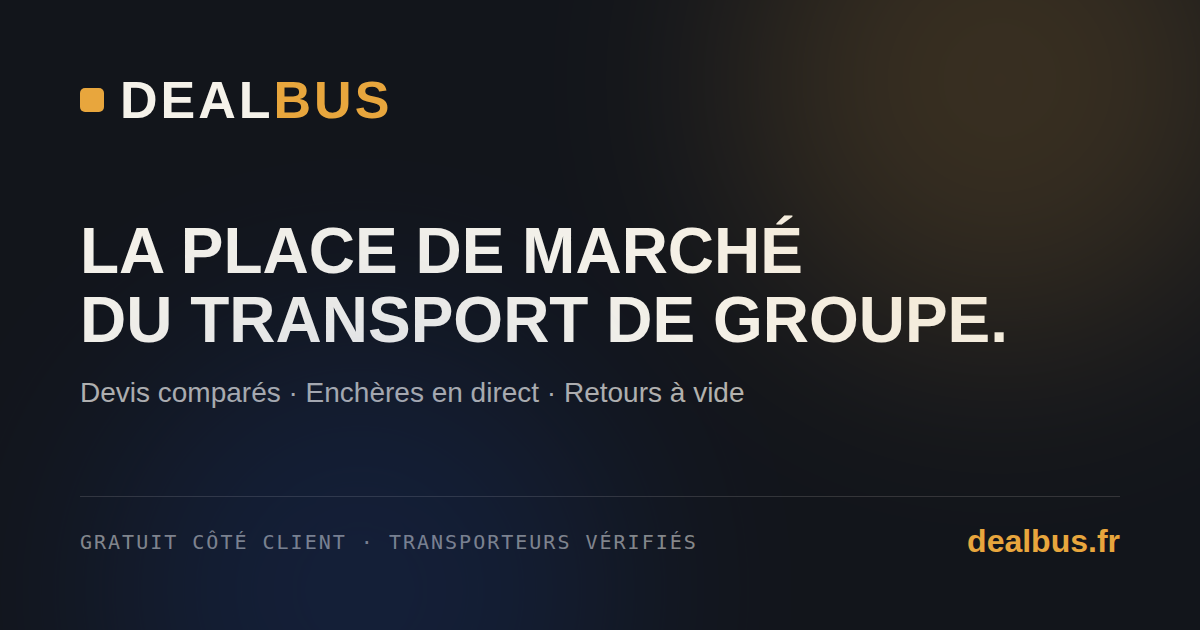
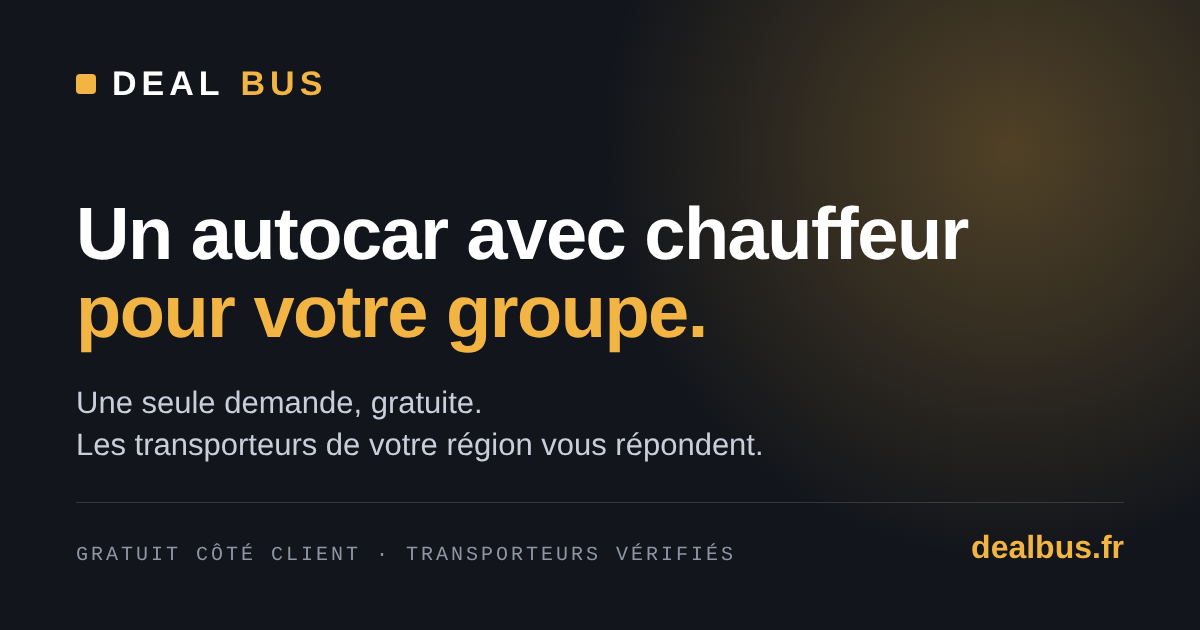
Image de partage refaite : plus d'enchères ni de retours à vide
Claude-Session: https://claude.ai/code/session_01JnXVn4FtcUdYuubfboMK7A

diff --git a/app/layout.tsx b/app/layout.tsx
@@ -30,14 +30,14 @@ export const metadata: Metadata = {
     locale: "fr_FR",
     url: "https://dealbus.fr",
     siteName: "DealBus",
-    title: "DealBus — La place de marché du transport de groupe",
+    title: "DealBus : un autocar avec chauffeur pour votre groupe",
     description:
       "Une seule demande, des devis fermes à comparer : le transport de groupe en autocar, avec des transporteurs vérifiés.",
-    images: [{ url: "/og.png", width: 1200, height: 630, alt: "DealBus — la place de marché du transport de groupe" }],
+    images: [{ url: "/og.png", width: 1200, height: 630, alt: "DealBus : un autocar avec chauffeur pour votre groupe" }],
   },
   twitter: {
     card: "summary_large_image",
-    title: "DealBus — La place de marché du transport de groupe",
+    title: "DealBus : un autocar avec chauffeur pour votre groupe",
     description: "Une seule demande, des devis fermes de transporteurs vérifiés à comparer.",
     images: ["/og.png"],
   },
